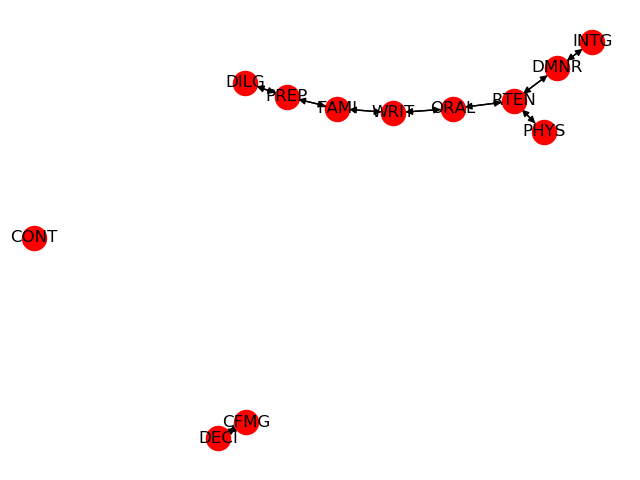
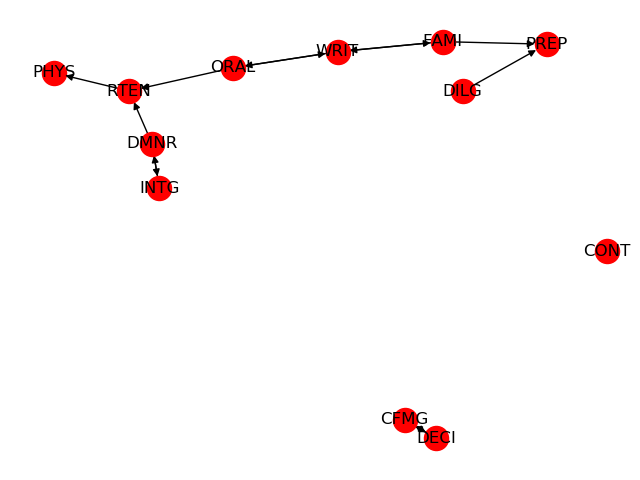
dag working

diff --git a/contest/pcalgorithm.py b/contest/pcalgorithm.py
@@ -9,6 +9,7 @@ import matplotlib.pyplot as plt
 
 setOfParts = lambda x : chain.from_iterable(combinations(list(x),n) for n in range(len(list(x))+1))
 complete = lambda n : [[1 for i in range(n)] for i in range(n)]
+rnorm = lambda n : np.random.normal(size=n) 
 
 def get_skeleton(dataset, alpha, labels,corr_matrix = None):
     var_covar = dataset.cov().values
@@ -82,6 +83,76 @@ def indep_test(CM, n, i, j, K):
     res = math.sqrt(n - len(K) - 3) * 0.5 * math.log1p((2*r)/(1-r))
     return 2 * (1 - norm.cdf(abs(res)))
 
+def to_cpdag(skeleton, sep_set):
+    def getIndependents(cpdag,reqij,reqji):
+        ind = []
+        for i in range(len(cpdag)):
+            for j in range(len(cpdag)):
+                if cpdag[i][j] == reqij and (reqji == None or cpdag[j][i] == reqji):
+                    ind.append((i,j))
+        return sorted(ind, key = lambda z:(z[1],z[0]))
+    cpdag = skeleton.tolist()
+    ind = getIndependents(skeleton,1,None)
+    for x, y in ind:
+        allZ = []
+        for z in range(len(cpdag)):
+            if skeleton[y][z] == 1 and z != x:
+                allZ.append(z)
+        for z in allZ:
+            if skeleton[x][z] == 0 and sep_set[x][z] != None and sep_set[z][x] != None and not (
+                    y in sep_set[x][z] or y in sep_set[z][x]):
+                cpdag[x][y] = cpdag[z][y] = 1
+                cpdag[y][x] = cpdag[y][z] = 0
+    #rule 1
+    search = list(cpdag)
+    ind = getIndependents(cpdag,1,0)
+    for a,b in ind:
+        found = []
+        for i in range(len(search)):
+            if (search[b][i] == 1 and search[i][b] == 1) and (search[a][i] == 0 and search[i][a] == 0):
+                 found.append(i)
+        if len(found) > 0:
+            for c in found:
+                if cpdag[b][c] == 1 and cpdag[c][b] == 1:
+                    cpdag[b][c] = 1
+                    cpdag[c][b] = 0
+                elif cpdag[b][c] == 0 and cpdag[c][b] == 1:
+                    cpdag[b][c] = 2
+                    cpdag[c][b] = 2
+    #rule2
+    search = list(cpdag)
+    ind = getIndependents(cpdag,1,1)
+    for a, b in ind:
+        found = []
+        for i in range(len(search)):
+            if (search[a][i] == 1 and search[i][a] == 0) and (search[i][b] == 1 and search[b][i] == 0):
+                found.append(i)
+        if len(found) > 0:
+            if cpdag[a][b] == 1 and pdag[b][a] == 1:
+                cpdag[a][b] = 1
+                cpdag[b][a] = 0
+            elif cpdag[a][b] == 0 and cpdag[b][a] == 1:
+                cpdag[a][b] = cpdag[b][a] = 2    
+    #rule3
+    search = list(cpdag)
+    ind = getIndependents(cpdag,1,1)
+    for a, b in ind:
+        found = []
+        for i in range(len(search)):
+            if (search[a][i] == 1 and search[i][a] == 1) and (search[i][b] == 1 and search[b][i] == 0):
+                found.append(i)
+        if len(found) >= 2:
+            for c1, c2 in combinations(found, 2):
+                if search[c1][c2] == 0 and search[c2][c1] == 0:
+                    if search[a][b] == 1 and search[b][a] == 1:
+                        cpdag[a][b] = 1
+                        cpdag[b][a] = 0
+                        break
+                    elif search[a][b] == 0 and search[b][a] == 1:
+                        cpdag[a][b] = cpdag[b][a] = 2
+                        break
+    return np.array(cpdag)
+
 def plot(toplot, labels):
     G = nx.DiGraph()
     for i in range(len(toplot)):
@@ -92,8 +163,6 @@ def plot(toplot, labels):
     nx.draw(G, with_labels = True)
     plt.savefig("graph.png")
     plt.show()
-
-
 
 def butterfly_model():
     alpha = .05
@@ -113,23 +182,34 @@ def from_file(filename, separator = ","):
     (g,sep_set) = get_skeleton(dataset, alpha,dataset.columns,corr_matrix = dataset.corr().values)
     print(g)
     plot(g,dataset.columns)
-
-def generated():
-    alpha = .05
-    varnames = ["x1","x2","x3","x4","y"]
-    N = 500
-    (x1,x2,x3,x4,y) = generate(N)
-    dataset = [x1,x2,x3,x4,y]
-    dataset = np.array(transpose(dataset))
-    sigma = np.cov(dataset)
-    sigma_inverse = np.linalg.pinv(sigma)
-    (g,sep_set) = pc_algorithm(sigma_inverse,N, alpha, varnames)
+    g = to_cpdag(g,sep_set)
     print(g)
-    plot(g, varnames)
+    plot(g,dataset.columns)
+
+def gen_lin_reg_model(a,b,N):
+    alpha = .10
+    x1 = rnorm(N)
+    x2 = a*x1+rnorm(N)
+    x3 = a*x1+rnorm(N)
+    x4 = a*x1+rnorm(N)
+    y = b*x2 + b*x3 + b*x4 + rnorm(N)
+    dataset = pd.DataFrame({'x1': x1.tolist(),
+                       'x2': x2.tolist(),
+                       'x3': x3.tolist(),
+                       'x4': x4.tolist(),
+                        'y': y.tolist()
+                        })
+    (g,sep_set) = get_skeleton(dataset, alpha,dataset.columns,corr_matrix = dataset.corr().values)
+    print(g)
+    plot(g,dataset.columns)
+    g = to_cpdag(g,sep_set)
+    print(g)
+    plot(g,dataset.columns)
 
 if __name__ == '__main__':
     #butterfly_model()
     from_file('guPrenat.dat',separator = '\t')
+    #gen_lin_reg_model(3,5,50000)
     
         
            
